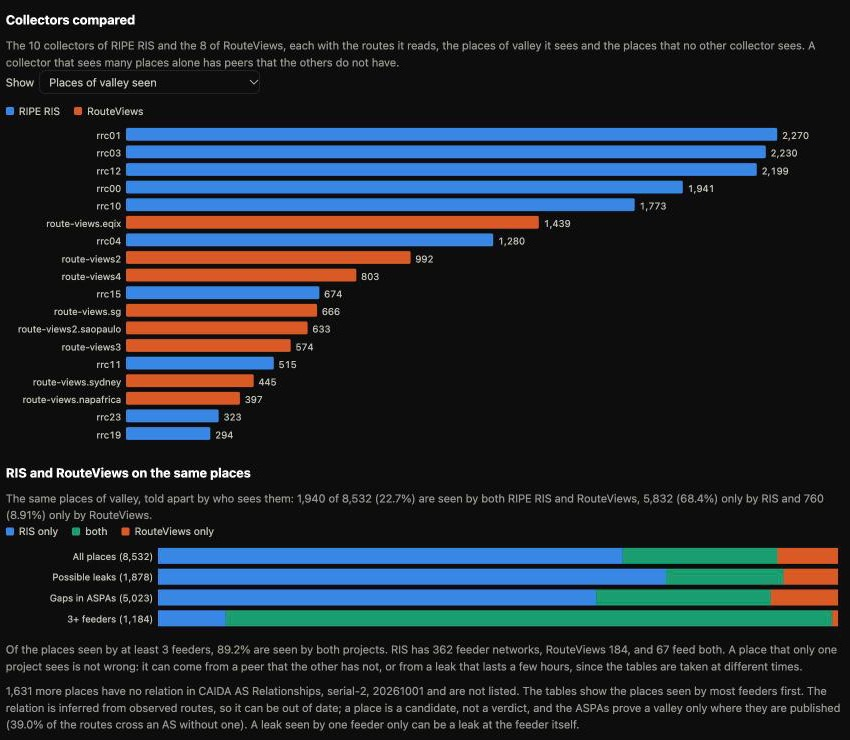
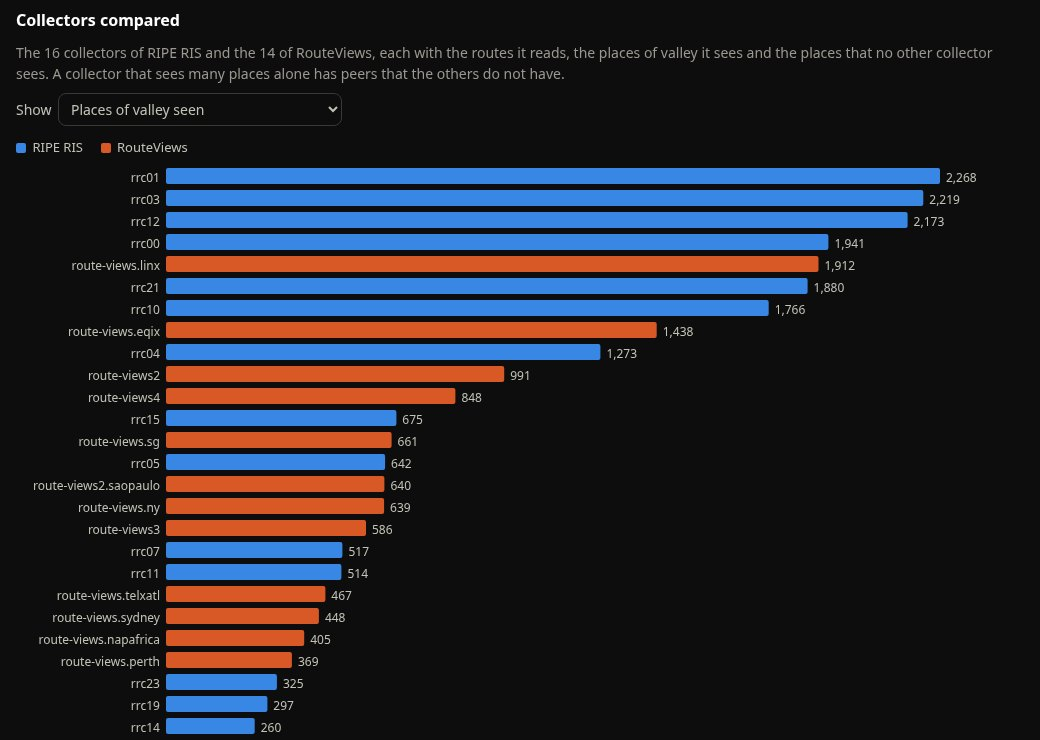
Screenshots of the leaks and statistics sections after the recount; 17 days of history

diff --git a/README.md b/README.md
@@ -123,7 +123,7 @@ An **ASPA** (Autonomous System Provider Authorization) is a signed RPKI object i
 
 ASPA Explorer shows every ASPA that the validator currently considers valid, so you can search it, check AS paths and the routes seen in BGP against it, follow its changes and see the big picture. It runs at <https://aspa.ping6.it/> (Department of Information Engineering, University of Padova).
 
-<sub>In numbers, on 18 October 2026: 3,229 of 88,221 networks seen in BGP have an ASPA (3.66%); 607 M routes of 30 collectors are checked every day: 59 M valid (9.8%), 547 M with no ASPA to say about some hop and 691 k invalid; 10,011 places of valley, 16 days of history. The [statistics page](https://aspa.ping6.it/statistics.html) has the numbers of today.</sub>
+<sub>In numbers, on 18 October 2026: 3,229 of 88,221 networks seen in BGP have an ASPA (3.66%); 607 M routes of 30 collectors are checked every day: 59 M valid (9.8%), 547 M with no ASPA to say about some hop and 691 k invalid; 10,011 places of valley, 17 days of history. The [statistics page](https://aspa.ping6.it/statistics.html) has the numbers of today.</sub>
 
 The validator is a [Routinator](https://github.com/NLnetLabs/routinator) instance run at **[rpki.ping6.it](https://rpki.ping6.it/)**, which also publishes its own web UI (<https://rpki.ping6.it/ui/>) and the raw ASPA data (<https://rpki.ping6.it/jsonext?exclude=routeOrigins,routerKeys>).
 
